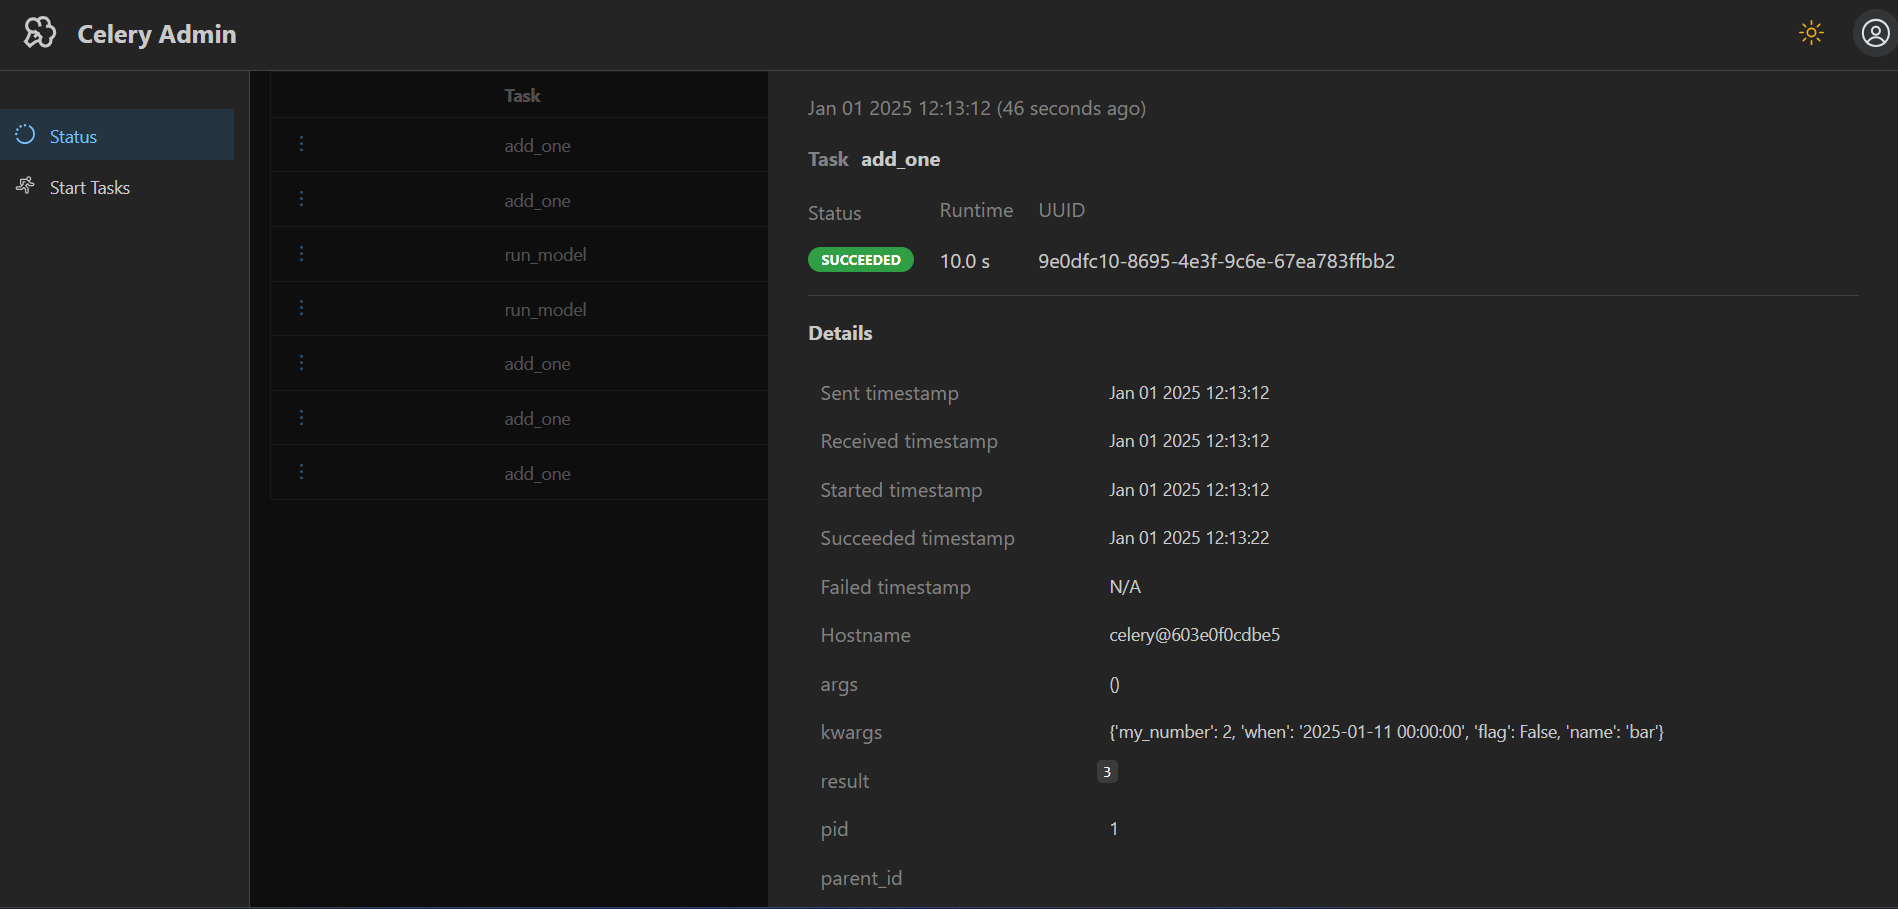
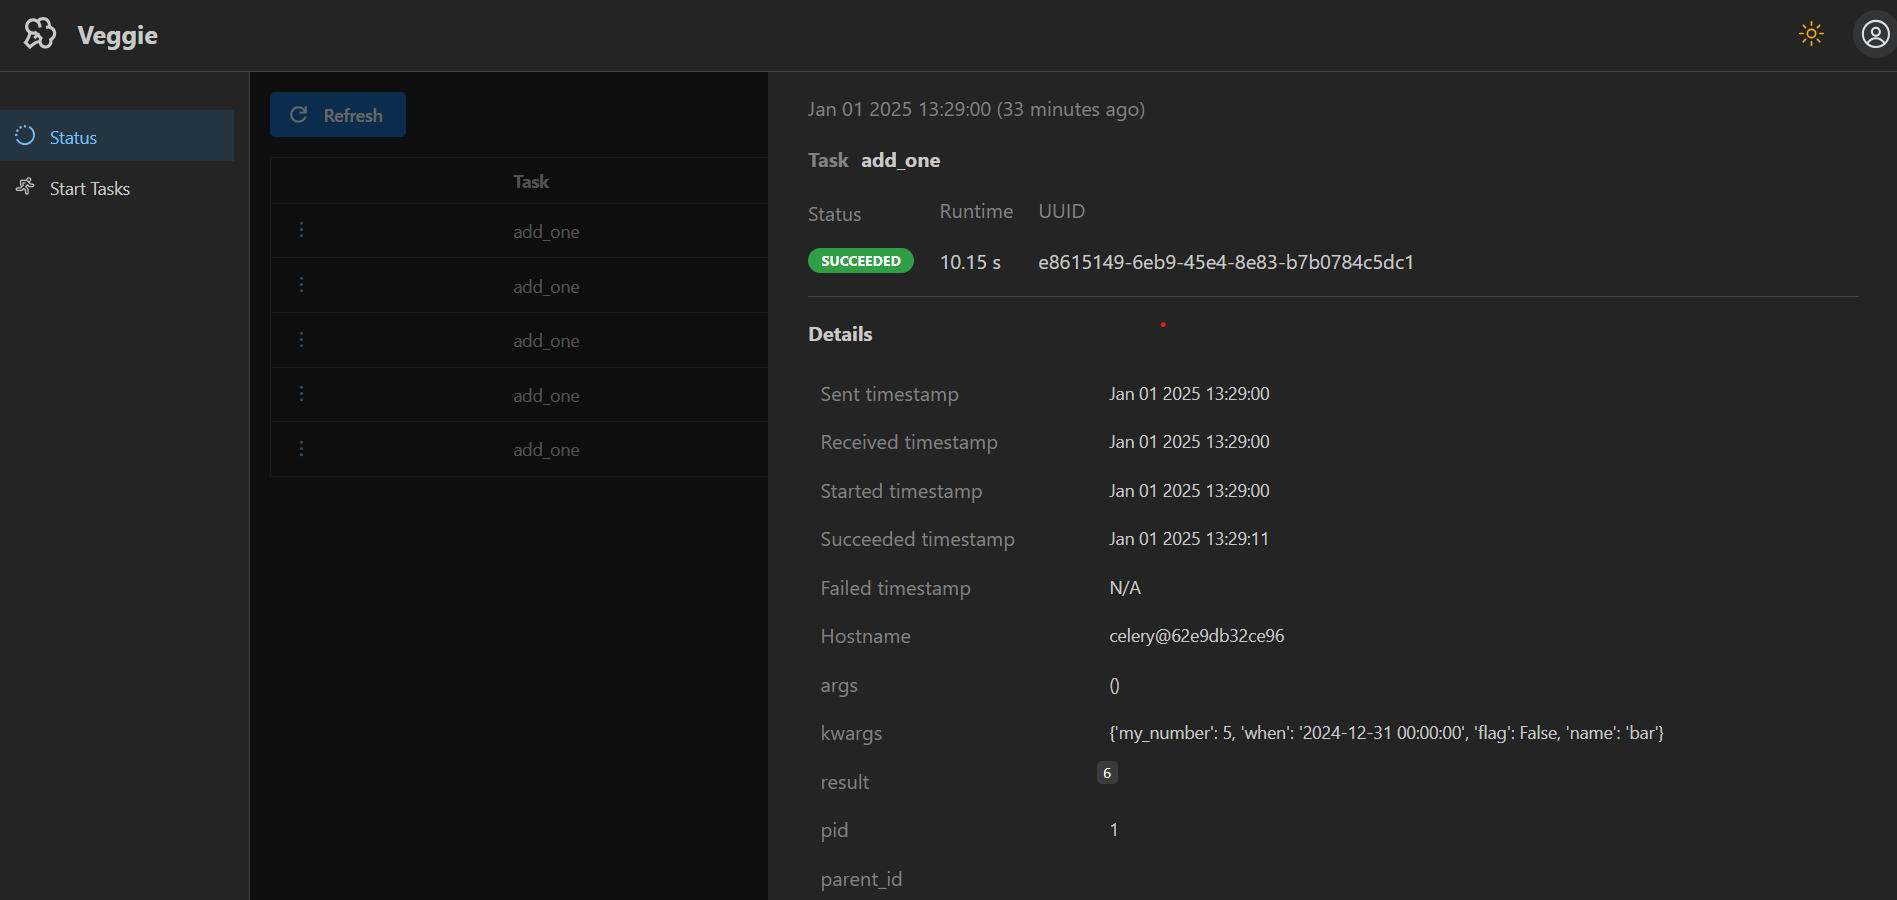
fix: Fix tool name in the UI header

diff --git a/veggie/webapp/dashboard/header.py b/veggie/webapp/dashboard/header.py
@@ -17,10 +17,7 @@ header_contents = dmc.Grid(
                     dmc.Burger(id="burger", opened=False, hiddenFrom="sm", size="md"),
                     dmc.Anchor(
                         dmc.Group(
-                            [
-                                DashIconify(icon="tdesign:broccoli", height=30),
-                                dmc.Text("Celery Admin", size="xl", fw=700),
-                            ]
+                            [DashIconify(icon="tdesign:broccoli", height=30), dmc.Text("Veggie", size="xl", fw=700)]
                         ),
                         href=config.APP_BASE_PATH,
                         refresh=False,
